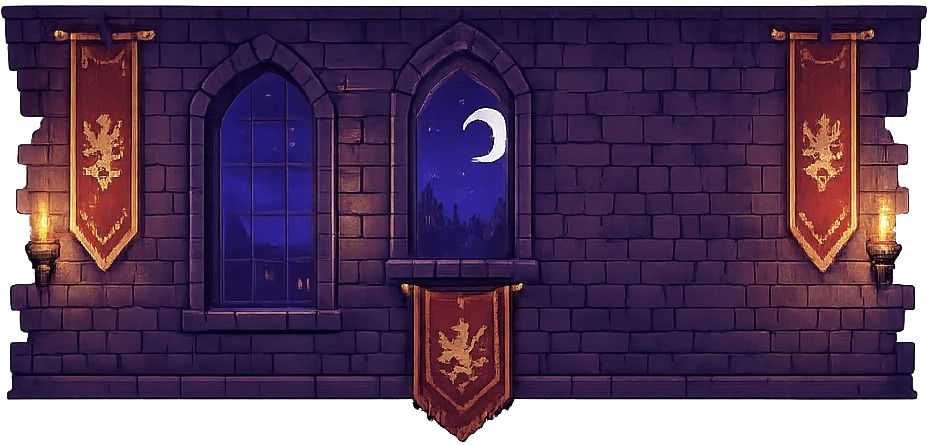
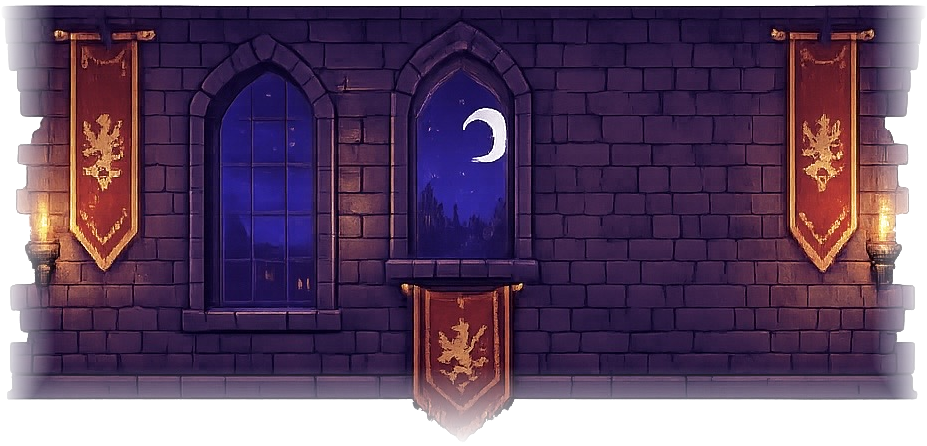
กลับไปใช้พื้นหลัง 2 ชั้นเดิม + แก้ขอบภาพให้เนียนขึ้น (soft fade แทนขอบสี่เหลี่ยมแข็งๆ)

Changed region(s): [[0.0, 0.0, 1.0, 0.991]]

diff --git a/src/components/CastleBackground.jsx b/src/components/CastleBackground.jsx
@@ -1,34 +1,53 @@
 import React from "react";
 import { useTheme } from "../context/ThemeContext.jsx";
+import { useIsMobile } from "../lib/useKeepBubbleOnScreen.js";
 
-const roomImg = new URL("../assets/backgrounds/castle_room.jpg", import.meta.url).href;
+const wallImg = new URL("../assets/backgrounds/castle_layer1_far.png", import.meta.url).href;
+const floorImg = new URL("../assets/backgrounds/castle_layer2_near.png", import.meta.url).href;
+
+// castle_layer1_far.png / castle_layer2_near.png (2026-08-08, third pass): pre-processed from the
+// original art (kept alongside as castle_layer1_far_original.png / castle_layer2_near_original.png
+// in case a future edit wants to start from the unfaded source again), NOT via a runtime CSS mask.
+// Straight out of the box, each PNG's own edges — the wall's left/right sides and bottom, the
+// floor's left/right pillar columns — were hard, fully-opaque pixels running flush to the image's
+// own rectangular canvas edge. Composited onto the gradient sky behind them, that read as a
+// visible straight-line "sticker" cutout rather than something that belongs in the scene
+// (reported: "ตัดภาพไม่ค่อยเนียน ดูเป็นเหลี่ยมก้อนสี่เหลี่ยม"). Each file now has its alpha channel
+// faded to transparent along just the edges that needed it (wall: left/right/bottom, top left
+// alone since the crenellations are already a natural silhouette there; floor: left/right/top,
+// bottom left alone since that edge is meant to sit flush against the screen's own bottom edge,
+// not fade into anything). Baked into the files instead of an equivalent CSS mask-image so it
+// doesn't depend on iOS Safari's mask-image support at all, and costs nothing at runtime.
 
 // Dungeon/castle backdrop for the "arcade" theme.
 //
-// 2026-08-08, second pass: the wall+windows and pillars+floor used to be two SEPARATE art layers
-// (the "near" one `position: fixed` to the viewport bottom, for a parallax-ish "always visible"
-// effect) — replaced with ONE single full-room illustration the user supplied instead, for two
-// reasons reported after trying the two-layer version: (1) the fixed near layer centered itself
-// on the whole browser viewport, which doesn't account for .app-sidebar's 260px on desktop, so it
-// drifted left onto the sidebar's own icons/text; (2) on mobile, having the wall and the floor as
-// two separate bands left a visibly empty gap of plain sky between them. A single image sidesteps
-// both: it's one `position: absolute` element (like every other layer here, no more `fixed`
-// anywhere in this file — the desktop-sidebar bug has no code path left to happen through), and
-// there's no gap because the room is one continuous illustrated scene, wall down to floor.
+// 2026-08-08: the wall/window/banner/torch pieces that used to be hand-drawn CSS+SVG are now two
+// real art layers the user supplied (src/assets/backgrounds) — replaced, not layered on top of
+// the old ones, since the art already depicts the same things (window, banners, torches) and
+// having both would double up. Night sky/stars/dark-overlay stay exactly as before; those aren't
+// things the new art replaces, they're the open sky the wall sits in front of. The separate CSS
+// moon disc + glow that used to sit here were dropped — layer1's own art already has a moon
+// rendered inside its window, and keeping both read as two moons stacked on top of each other.
 //
 //  1. Night sky gradient, full height (unchanged — the page can scroll for thousands of px, this
-//     is the one layer that's fine being that tall; the room art below is a fixed-size band near
-//     the top, same as the layers it replaces always were).
-//  2. Star field (unchanged). The separate CSS moon disc + glow from the two-layer version were
-//     dropped here — the room art already has its own moon rendered in the center window, and
-//     keeping both read as two moons stacked on top of each other.
-//  3. castle_room.jpg — the room art itself.
-//  4. Flat dark overlay — same contrast guarantee as before, still last so it dims the art
-//     exactly like it used to dim the hand-drawn CSS version.
-// maxWidth: 900 keeps the room looking like a mobile-scaled band even on wide desktop windows,
-// instead of stretching to app-container's full (up to 1400px) width and looking oversized.
+//     is the one layer that's fine being that tall; the two art images are each a fixed-size band
+//     near the top/bottom).
+//  2. Star field (unchanged).
+//  3. layer1_far.png — the far wall (window, banners, torches baked into the art itself). Sits at
+//     the very top, same spot the old CSS wall band occupied — scrolls away with the page on a
+//     long scroll, same as before.
+//  4. layer2_near.png — pillars + floor, transparent in the middle. Mobile: `position: fixed` to
+//     the viewport's bottom edge (same idiom as BottomNav.jsx) so it stays in view framing the
+//     bottom of the screen the whole time you're on this page, not scroll away like the far wall
+//     does. Desktop uses `absolute` instead — see that image's own comment below for why.
+//  5. Flat dark overlay — same contrast guarantee as before, still last so it dims the art layers
+//     exactly like it used to dim the hand-drawn ones.
+// maxWidth: 900 on both art layers keeps them looking like a mobile-scaled castle band even on
+// wide desktop windows, instead of stretching to app-container's full (up to 1400px) width and
+// looking oversized/blurry.
 export default function CastleBackground() {
   const { theme } = useTheme();
+  const isMobile = useIsMobile();
   if (theme !== "arcade") return null;
 
   return (
@@ -53,14 +72,34 @@ export default function CastleBackground() {
           in the top band that's always in view on load. */}
       <StarField />
 
-      {/* 3. Room art */}
+      {/* 3. Far wall art */}
       <img
-        src={roomImg}
+        src={wallImg}
         alt=""
         style={{ position: "absolute", top: 0, left: "50%", transform: "translateX(-50%)", width: "100%", maxWidth: 900, height: "auto", display: "block" }}
       />
 
-      {/* 4. Dark overlay — the actual contrast guarantee. Everything above this exists only to
+      {/* 4. Near pillars/floor art. Mobile: `position: fixed` to the viewport bottom (not the
+          scrollable page) — there's no sidebar there, app-container is essentially the whole
+          screen width, so viewport-centering lines up with the content underneath it.
+          Desktop: `fixed` centers on the FULL viewport width, which doesn't account for
+          .app-sidebar's 260px — that pushed this layer left, off center under the actual content
+          column and onto the sidebar's own icons/text instead (2026-08-08 bug report). Desktop
+          switches to `absolute, bottom: 0` instead, which sizes/centers against app-container
+          (this element's own containing block, same as the wall layer above) and scrolls with
+          the page like every other layer here — an acceptable trade (desktop pages are also far
+          less often as tall/scrolly as the mobile one-column layout gets). */}
+      <img
+        src={floorImg}
+        alt=""
+        style={{
+          position: isMobile ? "fixed" : "absolute",
+          bottom: 0, left: "50%", transform: "translateX(-50%)",
+          width: "100%", maxWidth: 900, height: "auto", display: "block",
+        }}
+      />
+
+      {/* 5. Dark overlay — the actual contrast guarantee. Everything above this exists only to
           be seen through it. */}
       <div style={{ position: "absolute", inset: 0, background: "var(--castle-overlay)" }} />
     </div>
